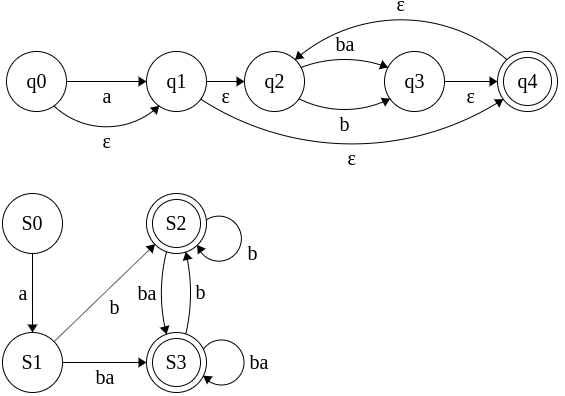
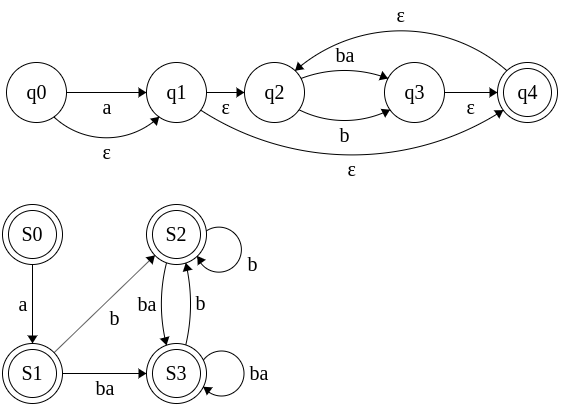
Fix exercise 3.2

diff --git a/Assignment02/Exercise3_2.md b/Assignment02/Exercise3_2.md
@@ -19,11 +19,13 @@ Try to find a DFA corresponding to the NFA.
 
 Solution:  
 
-| State |  a  |  b  |  ba |    NFA States    |
-|:-----:|:---:|:---:|:---:|:----------------:|
-|   S0  |  S1 | Err | Err | {q0, q1, q2, q4} |
-|   S1  | Err |  S2 |  S3 |   {q1, q2, q4}   |
-|   S2  | Err |  S2 |  S3 |   {q2, q3, q4}   |
-|   S3  | Err |  S2 |  S3 |   {q2, q3, q4}   |
+| State |  a  |  b  |  ba |    NFA States    | Accepting |
+|:-----:|:---:|:---:|:---:|:----------------:|:---------:|
+|   S0  |  S1 | Err | Err | {q0, q1, q2, q4} |    Yes    |
+|   S1  | Err |  S2 |  S3 |   {q1, q2, q4}   |    Yes    |
+|   S2  | Err |  S2 |  S3 |   {q2, q3, q4}   |    Yes    |
+|   S3  | Err |  S2 |  S3 |   {q2, q3, q4}   |    Yes    |
 
 ![](./images/dfa.png)
+
+Note: There is an error in the regex, making it match on empty string.

diff --git a/Assignment02/Exercise3_3.md b/Assignment02/Exercise3_3.md
@@ -1,0 +1,10 @@
+# Exercise 3.3
+
+Write out the rightmost derivation of the string below from the expression grammar at the end of Sect. 3.6.5, corresponding to ExprPar.fsy. Take note
+of the sequence of grammar rules (A–I) used.
+
+`let z = (17) in z + 2 * 3 end EOF`
+
+Solution:
+
+Og i s

diff --git a/Assignment02/Exercise3_4.md b/Assignment02/Exercise3_4.md
@@ -1,0 +1,5 @@
+# Exercise 3.4
+
+Draw the derivation from exercise 3.3 as a tree.
+
+Solution:
